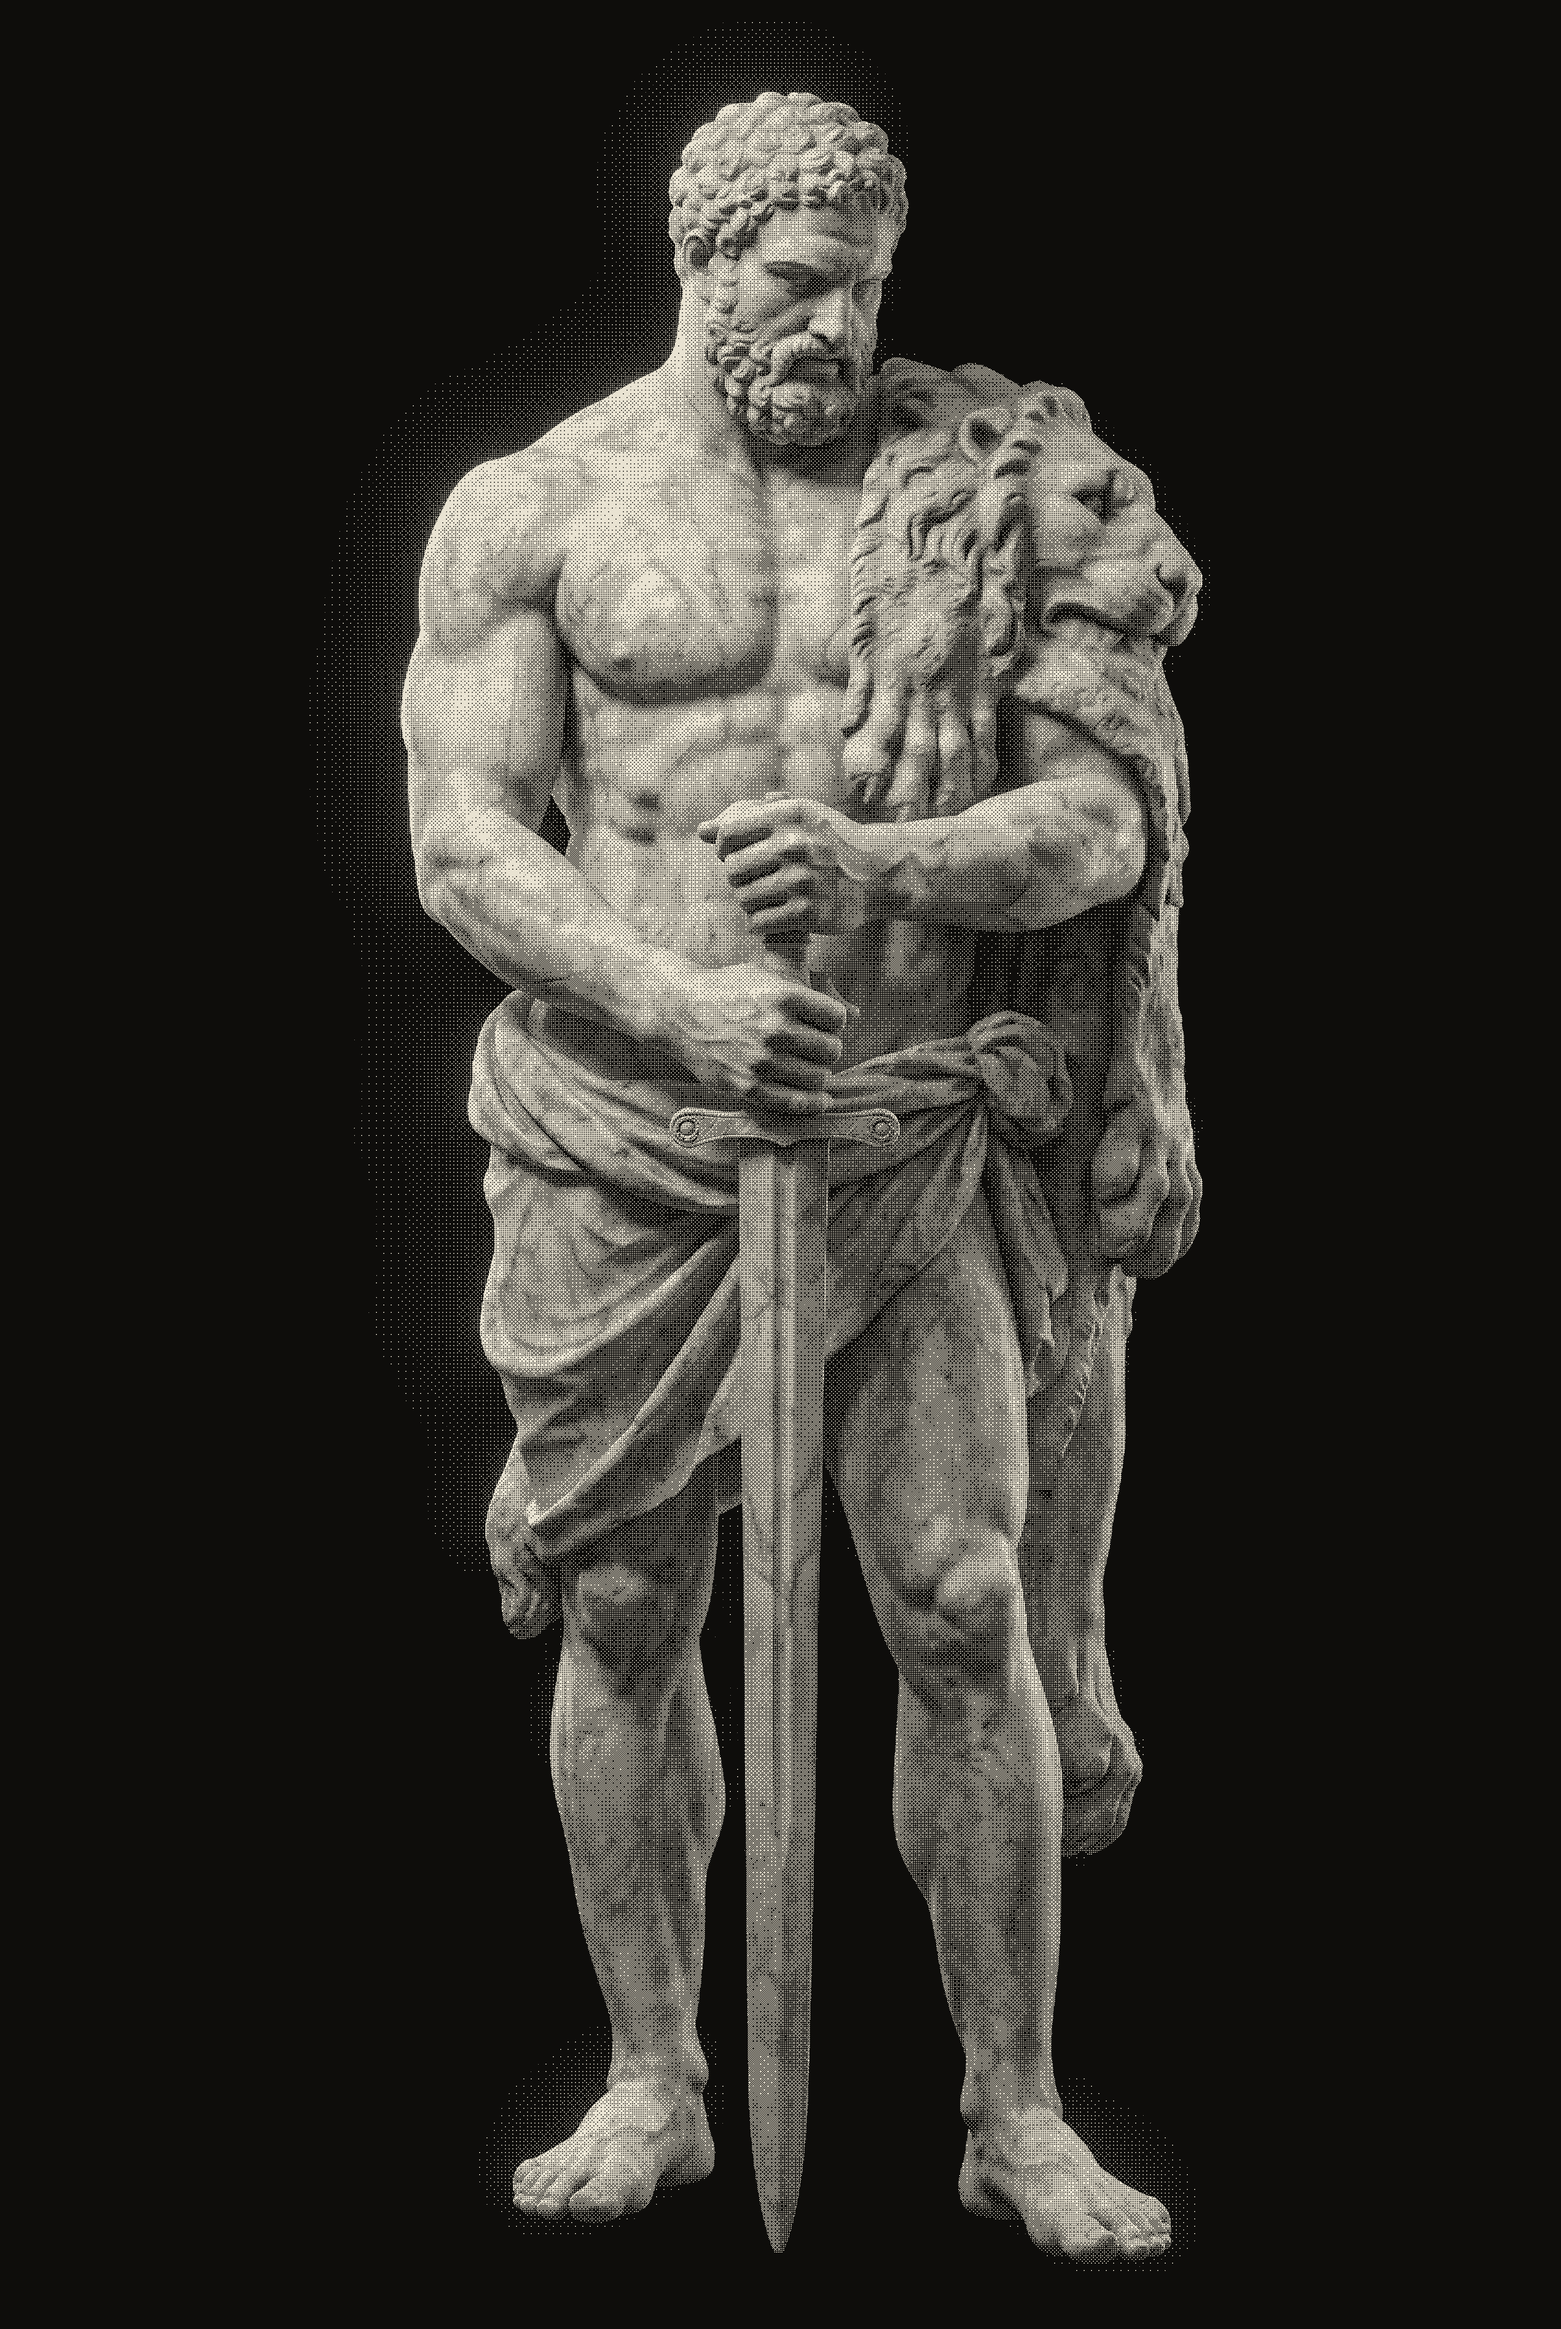
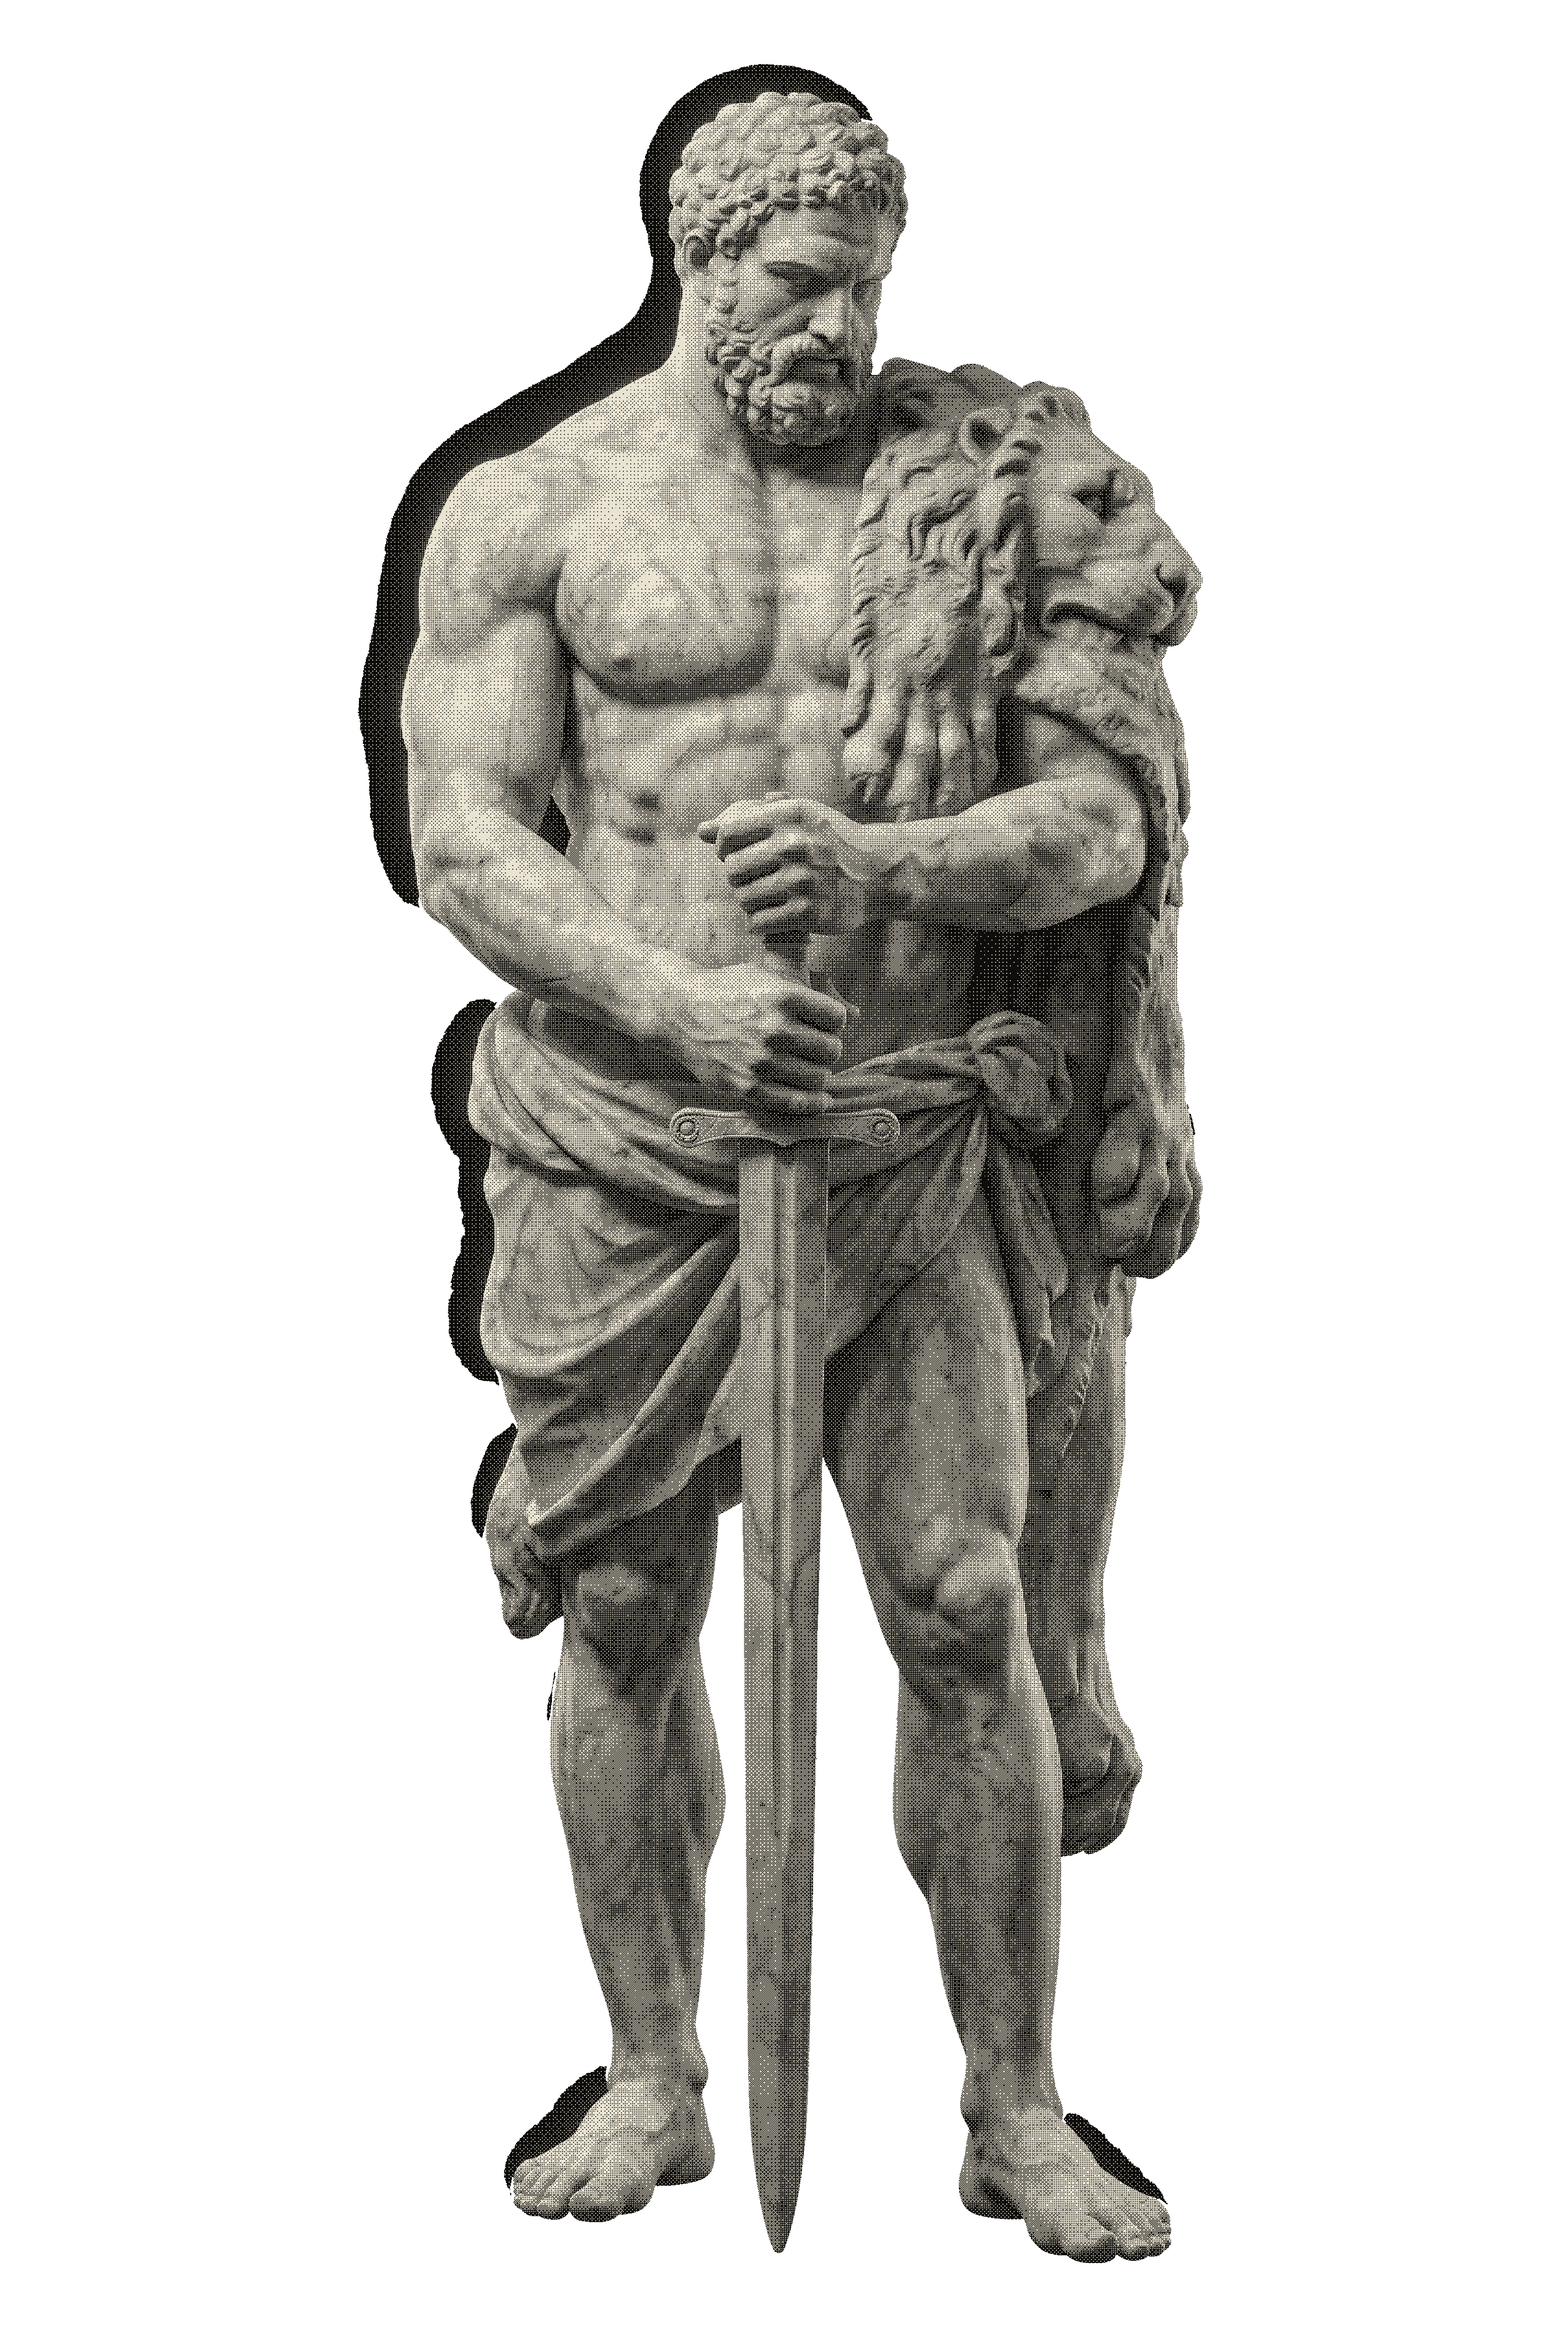
fix: responsive zoom scaling for hercules, zero-tolerance mask & depth cleanup eliminating black bars, and preloader prompt repositioned below circle

diff --git a/src/components/three/HeroScene.tsx b/src/components/three/HeroScene.tsx
@@ -8,6 +8,8 @@ import { heroVertexShader, heroFragmentShader } from "./shaders/heroShaders";
 import { BoneImage } from "@/components/ui/BoneImage";
 import { usePrefersReducedMotion } from "@/hooks/useMedia";
 
+const ASSET_VERSION = "20261008-5";
+
 function ShaderMesh({
   mousePos,
 }: {
@@ -16,11 +18,11 @@ function ShaderMesh({
   const meshRef = useRef<THREE.Mesh>(null);
   const { size, viewport } = useThree();
 
-  // Load textures
+  // Load textures with asset versioning to bust browser disk/memory cache
   const [colorMap, depthMap, maskMap] = useTexture([
-    "/art/hero-hercules.color.webp",
-    "/art/hero-hercules.depth.png",
-    "/art/hero-hercules.mask.png",
+    `/art/hero-hercules.color.webp?v=${ASSET_VERSION}`,
+    `/art/hero-hercules.depth.png?v=${ASSET_VERSION}`,
+    `/art/hero-hercules.mask.png?v=${ASSET_VERSION}`,
   ]);
 
   const lerpedMouse = useRef(new THREE.Vector2(0.5, 0.5));
@@ -74,14 +76,20 @@ function ShaderMesh({
     material.uniforms.uTorch.value.copy(lerpedTorch.current);
   });
 
-  // Calculate plane aspect ratio to preserve statue proportions and prevent top cut-off
+  // Calculate plane dimensions in reference CSS pixels so Hercules zooms in and out proportionally with browser zoom
   const imageAspect = 3388 / 5056; // 0.67
-  const planeHeight = Math.min(viewport.height * 0.86, viewport.width * 1.05);
+  const baseHeight = 780;
+  const mobileMax = viewport.width * 1.05;
+  const planeHeight = Math.min(baseHeight, mobileMax);
   const planeWidth = planeHeight * imageAspect;
 
   return (
-    <mesh ref={meshRef} position={[0, -viewport.height * 0.02, 0]}>
-      <planeGeometry args={[planeWidth, planeHeight, 1, 1]} />
+    <mesh
+      ref={meshRef}
+      position={[0, -planeHeight * 0.02, 0]}
+      scale={[planeWidth, planeHeight, 1]}
+    >
+      <planeGeometry args={[1, 1, 1, 1]} />
       <shaderMaterial
         vertexShader={heroVertexShader}
         fragmentShader={heroFragmentShader}
@@ -157,8 +165,8 @@ export function HeroScene({ className }: { className?: string }) {
       <div className={className || "relative w-full h-full flex items-center justify-center"}>
         <div className="relative w-full max-w-[540px] aspect-[3/4]">
           <BoneImage
-            src="/art/hero-hercules.bone.png"
-            hoverSrc="/art/hero-hercules.color.webp"
+            src={`/art/hero-hercules.bone.png?v=${ASSET_VERSION}`}
+            hoverSrc={`/art/hero-hercules.color.webp?v=${ASSET_VERSION}`}
             alt="Marble Hercules sculpture"
             fill
             priority
@@ -180,7 +188,7 @@ export function HeroScene({ className }: { className?: string }) {
         <div className="absolute inset-0 flex items-center justify-center">
           <div className="relative w-full max-w-[540px] aspect-[3/4]">
             <BoneImage
-              src="/art/hero-hercules.bone.png"
+              src={`/art/hero-hercules.bone.png?v=${ASSET_VERSION}`}
               alt="Marble Hercules sculpture"
               fill
               priority

diff --git a/src/components/layout/Preloader.tsx b/src/components/layout/Preloader.tsx
@@ -199,12 +199,12 @@ export function Preloader({ onComplete }: PreloaderProps) {
         />
       </div>
 
-      {/* Center Interactive Prompt */}
+      {/* Interactive Prompt below the circle */}
       <div
         ref={promptRef}
-        className="absolute top-1/2 left-1/2 -translate-x-1/2 -translate-y-1/2 z-40 flex flex-col items-center gap-4 pointer-events-none will-change-transform"
+        className="absolute top-[calc(50%+24vmin)] left-1/2 -translate-x-1/2 z-40 flex flex-col items-center gap-2 pointer-events-none will-change-transform"
       >
-        <div className="group flex items-center gap-3 px-6 py-3 rounded-full border border-bone/40 bg-[#070706]/85 backdrop-blur-md shadow-[0_0_30px_rgba(0,0,0,0.85)] transition-all duration-200">
+        <div className="group flex items-center gap-3 px-6 py-2.5 rounded-full border border-bone/40 bg-[#070706]/90 backdrop-blur-md shadow-[0_0_24px_rgba(0,0,0,0.9)] transition-all duration-200">
           <span className="w-2 h-2 rounded-full bg-sun animate-ping" />
           <span className="font-mono text-xs sm:text-sm uppercase tracking-dossier text-bone group-hover:text-sun font-semibold">
             CLICK TO ENTER
@@ -213,8 +213,8 @@ export function Preloader({ onComplete }: PreloaderProps) {
             ✦
           </span>
         </div>
-        <div className="font-mono text-[10px] sm:text-xs uppercase tracking-dossier text-bone/60">
-          [ INITIATE SYSTEM WITH AUDIO ]
+        <div className="font-mono text-[10px] uppercase tracking-dossier text-bone/60">
+          [ INITIATE AUDIO & ARCHIVES ]
         </div>
       </div>
 

diff --git a/src/components/three/shaders/heroShaders.ts b/src/components/three/shaders/heroShaders.ts
@@ -44,24 +44,30 @@ float bayer8(vec2 coord) {
 }
 
 void main() {
-  // 1. Initial depth sample
+  // 1. Strict base mask check: discard immediately if outside statue silhouette
+  float baseAlpha = texture2D(uMaskMap, vUv).r;
+  if (baseAlpha < 0.05) {
+    discard;
+  }
+
+  // 2. Depth sample
   float depth = texture2D(uDepthMap, vUv).r;
 
-  // 2. Parallax UV displacement based on mouse and depth
+  // 3. Parallax UV displacement based on mouse and depth
   vec2 displacedUv = vUv + (uMouse - 0.5) * depth * 0.035;
   displacedUv = clamp(displacedUv, vec2(0.001), vec2(0.999));
 
-  // 3. Alpha cutout from mask
+  // 4. Displaced alpha cutout from mask
   float alpha = texture2D(uMaskMap, displacedUv).r;
   if (alpha < 0.05) {
     discard;
   }
 
-  // 4. Sample continuous-tone original
+  // 5. Sample continuous-tone original
   vec4 colorSample = texture2D(uColorMap, displacedUv);
   float lum = dot(colorSample.rgb, vec3(0.299, 0.587, 0.114));
 
-  // Secondary safeguard: discard any background black pixels outside the marble
+  // 6. Secondary safeguard: discard any background black pixels
   if (lum < 0.02) {
     discard;
   }
